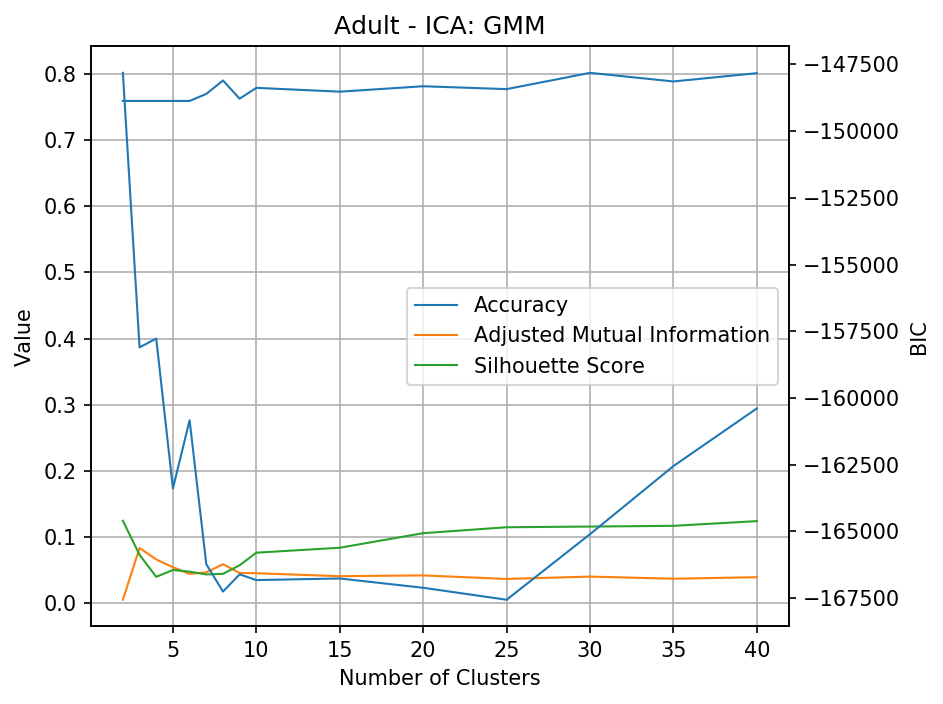
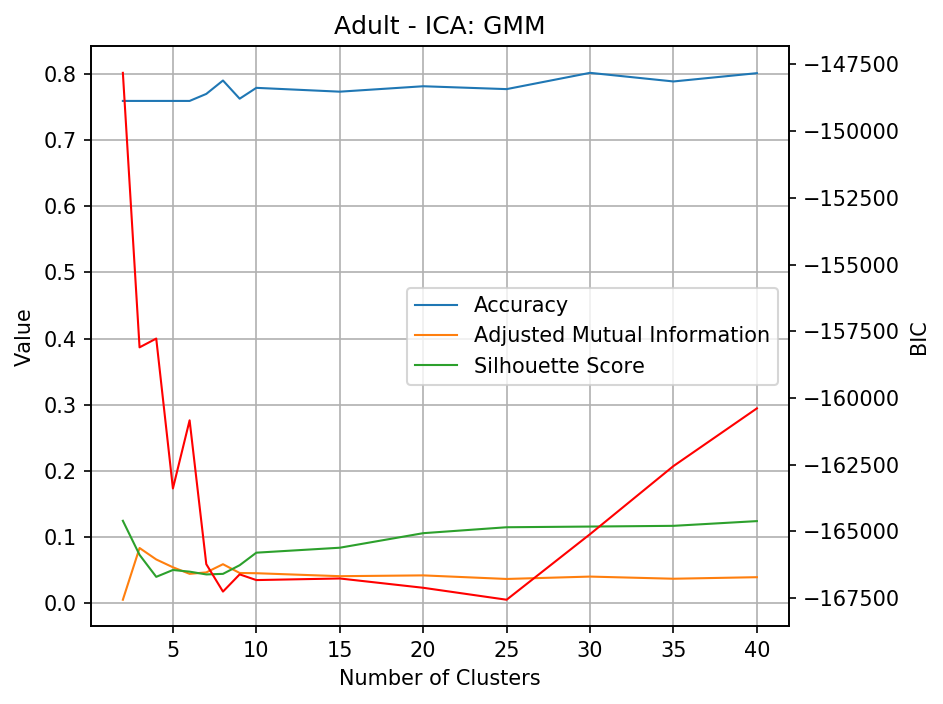
Updated color for 2nd axis in combined graphs to avoid conflict

diff --git a/assignment3/experiments/plotting.py b/assignment3/experiments/plotting.py
@@ -325,7 +325,7 @@ def plot_combined(title, df, data_columns, tsne_data=None, extra_data=None, extr
     if extra_data is not None and extra_data_name is not None:
         ex_ax = ax1.twinx()
         ex_ax.plot(extra_data.index.values, extra_data.iloc[:, 0], linewidth=1,
-                   label=extra_data_name)
+                   label=extra_data_name, color='red')
         ex_ax.set_ylabel(extra_data_name)
         ex_ax.tick_params('y')
 
